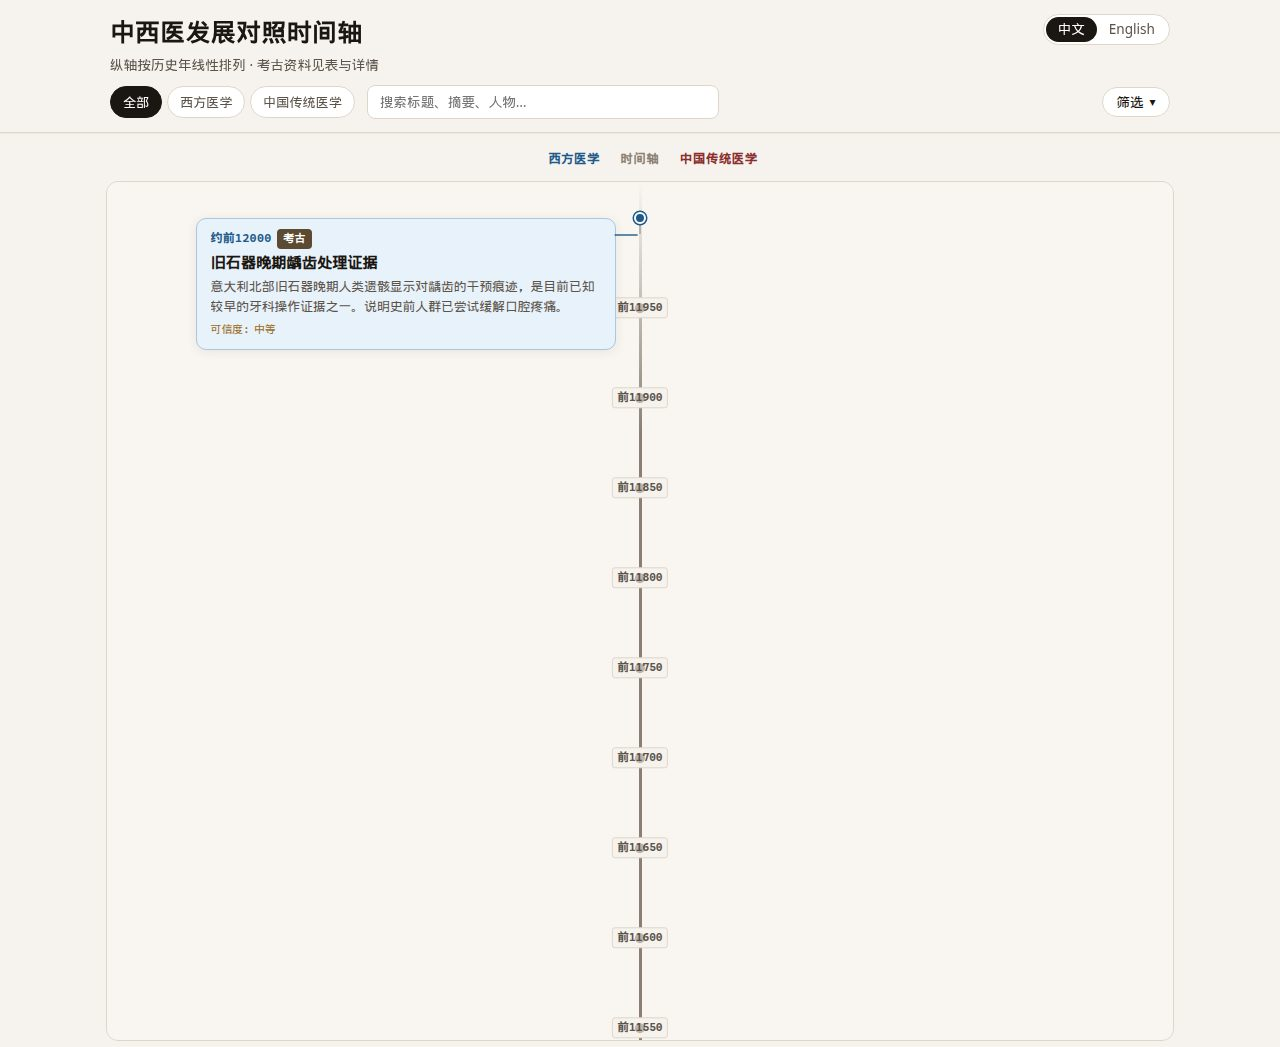
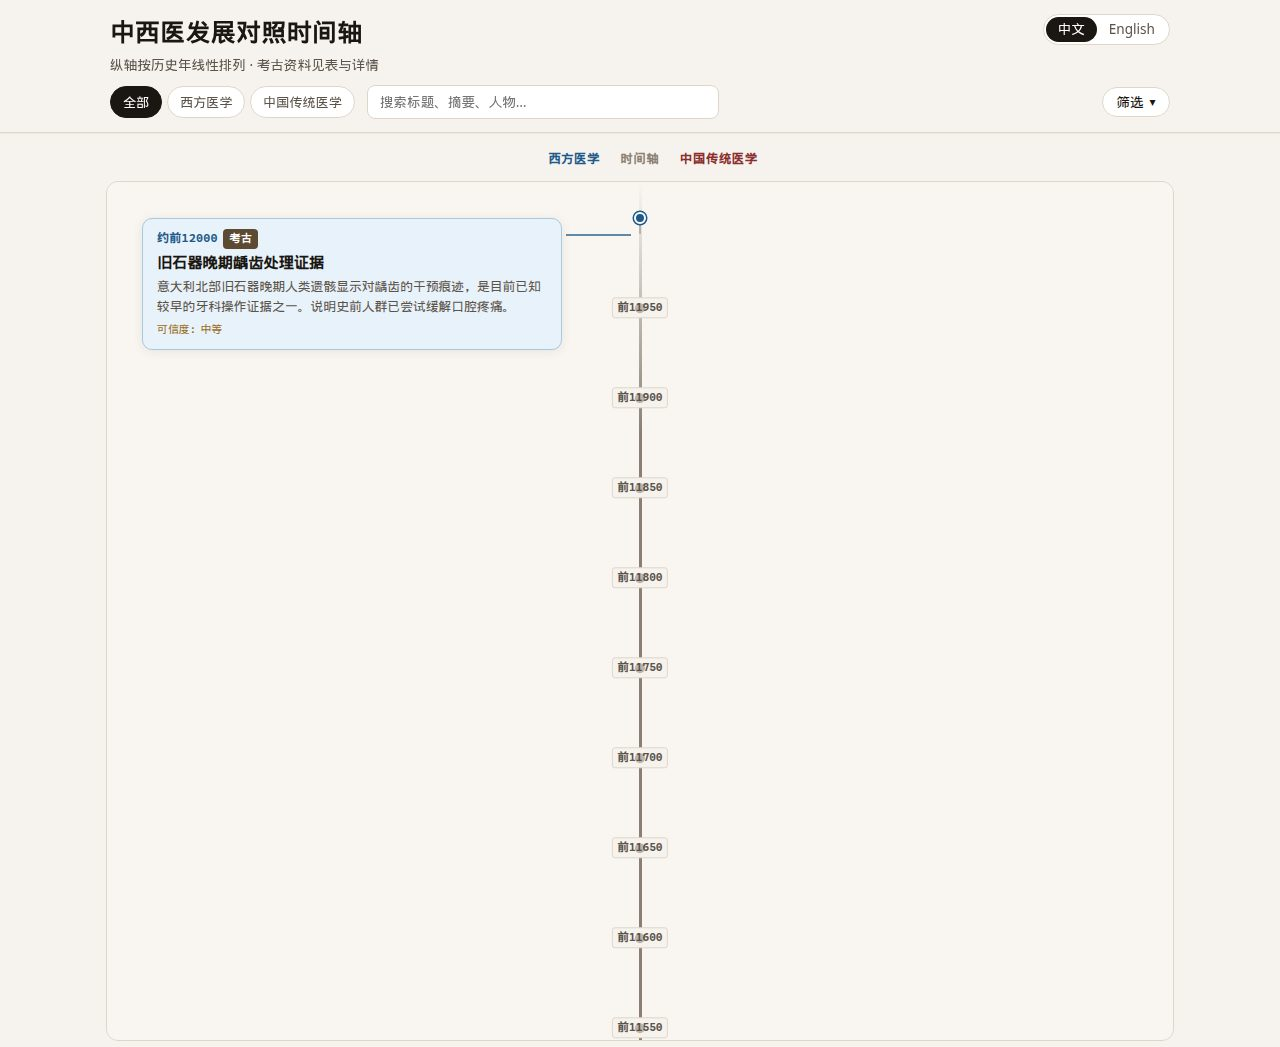
把年份刻度留在轴与卡片之间的空隙里
加宽中轴两侧的间距，避免「前11950」和「11950 BCE」被西侧卡片挡住。圆点仍在历史年份上。

Changed region(s): [[0.125, 0.2139, 0.4688, 0.3362]]

diff --git a/css/styles.css b/css/styles.css
@@ -16,6 +16,9 @@
   --header-bg: rgba(246, 243, 238, 0.96);
   --shadow: 0 2px 12px rgba(40, 30, 20, 0.08);
   --radius: 10px;
+  /* Center lane must fit the longest year label ("11950 BCE", "前11950")
+     so ticks stay on the linear axis and are not covered by cards. */
+  --axis-gap: 4.85rem;
   --font: "PingFang SC", "Hiragino Sans GB", "Noto Sans SC", "Microsoft YaHei",
     "Source Han Sans SC", system-ui, -apple-system, sans-serif;
   --mono: "SF Mono", "Cascadia Code", "Consolas", ui-monospace, monospace;
@@ -529,7 +532,7 @@ body {
 .event-card {
   position: absolute;
   top: 0;
-  width: calc(50% - 2.25rem);
+  width: calc(50% - var(--axis-gap) - 0.85rem);
   max-width: 420px;
   padding: 0.65rem 0.85rem;
   border-radius: var(--radius);
@@ -549,14 +552,14 @@ body {
 }
 
 .event-card.west {
-  right: calc(50% + 1.5rem);
+  right: calc(50% + var(--axis-gap));
   left: auto;
   border-color: var(--west-border);
   background: var(--west-bg);
 }
 
 .event-card.east {
-  left: calc(50% + 1.5rem);
+  left: calc(50% + var(--axis-gap));
   right: auto;
   border-color: var(--east-border);
   background: var(--east-bg);
@@ -580,21 +583,24 @@ body {
 
 .connector-h {
   height: 2px;
-  width: 1.45rem;
+  width: calc(var(--axis-gap) - 0.75rem);
   opacity: 0.7;
 }
 
 .event-slot.west .connector-h {
-  right: calc(50% + 0px);
-  margin-right: 0;
+  right: calc(50% + 0.55rem);
+  width: calc(var(--axis-gap) - 0.75rem);
+  margin: 0;
   background: var(--west);
-  transform: translateX(-0.15rem);
+  transform: none;
 }
 
 .event-slot.east .connector-h {
-  left: 50%;
-  margin-left: 0.15rem;
+  left: calc(50% + 0.55rem);
+  width: calc(var(--axis-gap) - 0.75rem);
+  margin: 0;
   background: var(--east);
+  transform: none;
 }
 
 .event-dot {
@@ -1050,10 +1056,16 @@ body {
     left: 1.15rem;
   }
 
+  .ruler-tick,
+  .ruler-tick.major {
+    /* Grow into the gap to the right of the left-hand axis, not under the card. */
+    transform: translate(0.55rem, -50%);
+  }
+
   .event-card,
   .event-card.west,
   .event-card.east {
-    left: 2.6rem;
+    left: 7.6rem;
     right: 0.4rem;
     width: auto;
     max-width: none;
@@ -1061,9 +1073,9 @@ body {
 
   .event-slot.west .connector-h,
   .event-slot.east .connector-h {
-    left: 1.15rem;
+    left: 1.55rem;
     right: auto;
-    width: 1.35rem;
+    width: calc(7.6rem - 1.7rem);
     margin: 0;
     transform: none;
     background: var(--axis);
